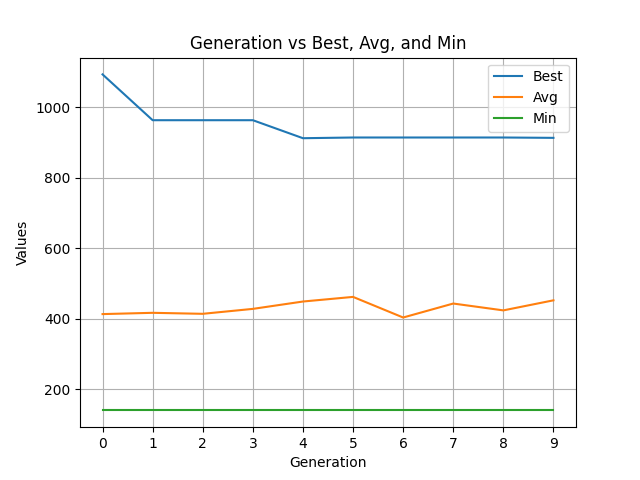
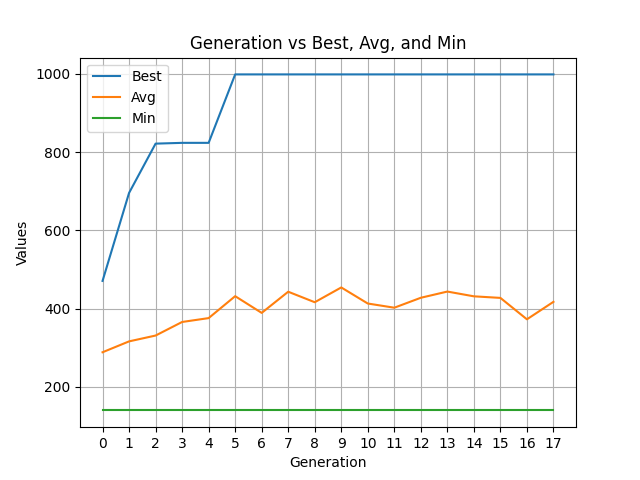
feat: updated graph

diff --git a/main.py b/main.py
@@ -1,14 +1,11 @@
-from numpy import save
-from src.genetics.genome import Genome
 from src.environments.debug_env import env_debug_init, run_game_debug
 from src.utils.config import Config
 from src.genetics.NEAT import NEAT
-from src.utils.utils import save_fitness, save_best_genome, load_best_genome, save_neat, load_neat, save_fitness_data
+from src.utils.utils import save_fitness, save_best_genome, load_best_genome, save_neat, load_neat, save_fitness_data, get_fitnesses_from_file
 import warnings
 import cProfile
 import pstats
 import argparse
-from typing import Dict
 
 warnings.filterwarnings("ignore", category=UserWarning, message=".*Gym version v0.24.1.*")
 
@@ -39,9 +36,12 @@ def collect_fitnesses(genomes, generation, min_fitnesses, avg_fitnesses, best_fi
     print(f"Generation: {generation} - Best: {max_fitness} - Avg: {avg_fitness} - Min: {min_fitness}")
 
 
-def main(neat_name: str = '', to_generations: int = 0):
+def main(args):
+    neat_name = args.neat_name
     profiler = cProfile.Profile()
     profiler.enable()
+    min_fitnesses, avg_fitnesses, best_fitnesses = [], [], []
+    to_generations = args.extra_number
     if neat_name == '':
         config_instance = Config()
         neat = NEAT(config_instance)
@@ -51,11 +51,10 @@ def main(neat_name: str = '', to_generations: int = 0):
     else:
         neat = load_neat(neat_name)
         config_instance = neat.config
-        # from_generation = neat.generation
         from_generation = 0
         generations = (config_instance.generations - from_generation) if to_generations == 0 else to_generations
+        _, min_fitnesses, avg_fitnesses, best_fitnesses = get_fitnesses_from_file()
 
-    min_fitnesses, avg_fitnesses, best_fitnesses = [], [], []
     print(f"Training from generation {from_generation} to generation {from_generation + generations}")
     
     try:
@@ -108,12 +107,14 @@ if __name__ == "__main__":
 
     graph_parser = subparsers.add_parser('graph', help="Graph the fitness data")
     
-    play_parser = subparsers.add_parser('play', help="Play the best genome")
+    play_parser = subparsers.add_parser('play', help="Play the best genome from the lastest generation")
+    play_parser.add_argument('-g', '--generation', type=int, help="The generation of the genome to play")
+    play_parser.add_argument('-b', '--best', action='store_true', help="Play the best genome")
     
     args = parser.parse_args()
     
     if args.command == "train":
-        main(neat_name=args.neat_name, to_generations=args.extra_number)
+        main(args) #neat_name=args.neat_name, to_generations=args.extra_number)
     elif args.command == "test":
         test_genome(args.from_gen, args.to_gen)
     elif args.command == "graph":

diff --git a/src/utils/utils.py b/src/utils/utils.py
@@ -110,3 +110,7 @@ def save_fitness_data():
     filename = 'data/fitness/fitness_values.txt'  # Make sure the file is named 'fitness.txt' and is in the same directory
     generations, best_values, avg_values, min_values = read_fitness_file(filename)
     plot_fitness_data(generations, best_values, avg_values, min_values)
+
+def get_fitnesses_from_file():
+    filename = 'data/fitness/fitness_values.txt'  # Make sure the file is named 'fitness.txt' and is in the same directory
+    return read_fitness_file(filename)
